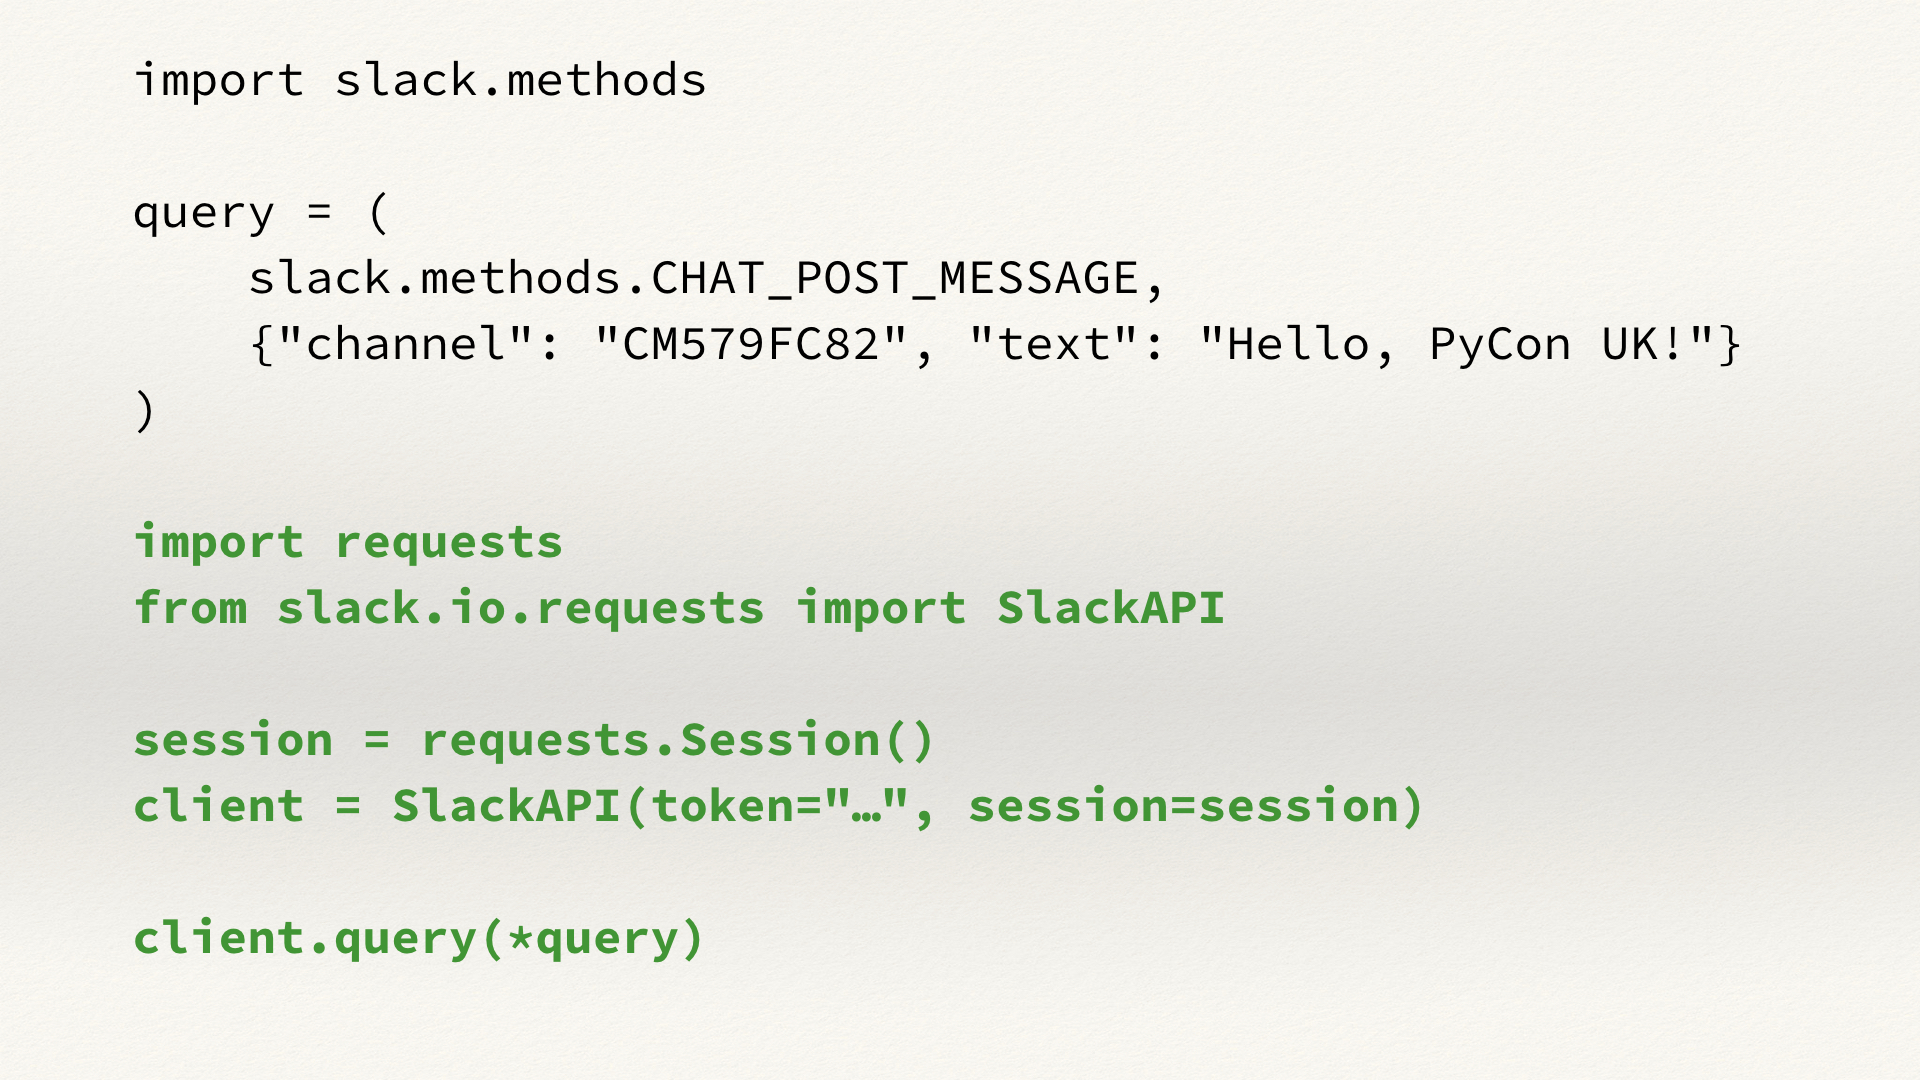
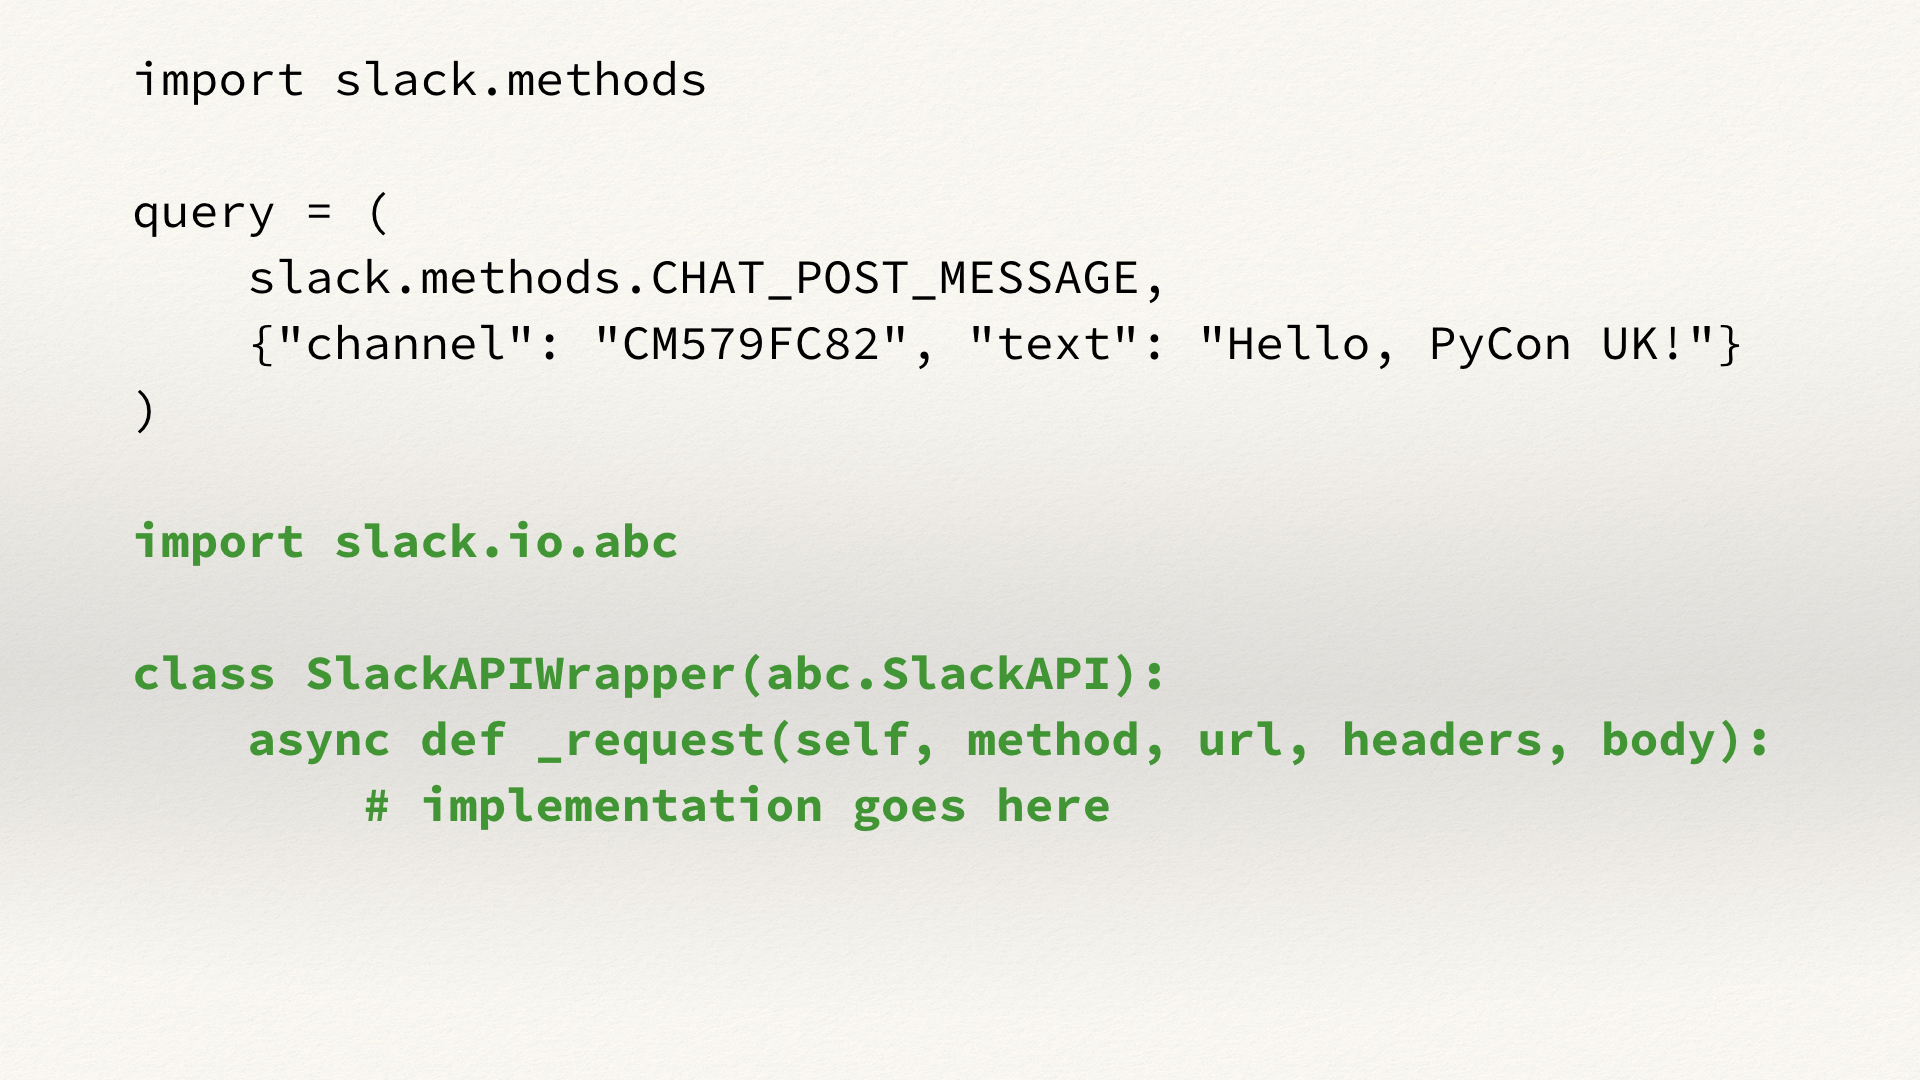
Tidy up the sans I/O programming post a bit

diff --git a/src/_drafts/sans-i-o-programming.md b/src/_drafts/sans-i-o-programming.md
@@ -12,12 +12,12 @@ index:
 
 Last month I gave a talk about PyCon UK about "sans I/O programming".
 This is a style of programming I've been trying to use for a while, and I've found it quite helpful.
-It's not something revolutionary, but a slightly nicer way to write code.
-The result is code that's simpler, cleaner, and easier to reuse and test.
+It's not revolutionary, but it's a nicer way to write code.
+The result is code that's simpler, cleaner, easier to reuse and easier to test.
 
 This isn't an original idea or term: I first encountered it a couple of years ago while working on the [hyper HTTP/2 library](https://github.com/python-hyper/hyper-h2), and I'm sure the idea is older than that.
 
-The talk was recorded, and you can watch it [on YouTube](https://www.youtube.com/watch?v=qwTWqy0uPbY)
+The talk was recorded, and you can watch it [on YouTube](https://www.youtube.com/watch?v=qwTWqy0uPbY):
 
 {% youtube https://www.youtube.com/watch?v=qwTWqy0uPbY %}
 
@@ -30,14 +30,13 @@ The two STTRs that day were Wendy Osmond and Hilary Maclean; I'm not sure who wa
 
 ## Links/recommended reading
 
-Writing I/O-Free (Sans-I/O) Protocol Implementations
-https://sans-io.readthedocs.io/how-to-sans-io.html
-Building Protocol Libraries the Right Way
-https://www.youtube.com/watch?v=7cC3_jGwl_U
-Designing an async API, from sans-I/O on up
-https://snarky.ca/designing-an-async-api-from-sans-i-o-on-up/
-SansIO – Migrating microservices to async
-https://smarketshq.com/sansio-migrating-microservices-to-asyncio-b97c69e391b2
+*   [Writing I/O-Free (Sans-I/O) Protocol Implementations](https://sans-io.readthedocs.io/how-to-sans-io.html)
+
+*   [Building Protocol Libraries the Right Way](https://www.youtube.com/watch?v=7cC3_jGwl_U), Cory Benfield's talk at PyCon 2016
+
+*   [Designing an async API, from sans-I/O on up](https://snarky.ca/designing-an-async-api-from-sans-i-o-on-up/), by Brett Cannon
+
+*   [SansIO – Migrating microservices to async](https://smarketshq.com/sansio-migrating-microservices-to-asyncio-b97c69e391b2), by João Alves
 
 
 
@@ -147,8 +146,9 @@ HTTP libraries end up being written to suit the I/O or the async primitive, and 
 If you look at it, httplib does exactly what those BagIt libraries were doing, except with sockets instead of files.
 To handle a HTTP request, it reads data from a socket, does some parsing, reads some data from a socket, does some parsing, but if you're not doing HTTP over a socket, or you want to control that socket yourself, that doesn't work for you.
 Because the HTTP state machine logic in httplib is so closely tied to that logic, it's really hard to disentangle the two.
+
 Every time somebody wants to create a new HTTP library, they have to build their own interpretation of the parser and state machine.
-They're getting good code reuse, and that's kind of sad.
+They're getting no code reuse, and that's kind of sad.
 We're all told that code reuse is a good thing, we should strive to have more code reuse, so in something as fundamental as HTTP, maybe it's an anti-pattern that we don't seem to have as much code reuse as we would like.
 
 I want to unpack the problems of not having so much code reuse.
@@ -176,9 +176,9 @@ Parsing stuff, doing business logic, is a tricky problem.
 It's hard to get right.
 There are subtle errors.
 
-I imagine lots of people in this room think they can write an RFC compliant HTTP/1.1 or BagIt parser -- I'm one of them -- and we are probably all wrong because parsing is really hard!
+I imagine lots of people in this room think they can write an RFC compliant HTTP/1.1 or BagIt parser -- I'm one of them -- and we're probably all wrong because parsing is really hard!
 So when we have multiple copies of the parser, and they're all independent and not showing any code, that means they're not sharing information about bugs.
-If I find a bug in Gunicorn and fix it there, that same bug might exist in other HTTP stacks, but it's unlikely it will get to them.
+If I find a bug in gunicorn and fix it there, that same bug might exist in other HTTP stacks, but it's unlikely it will get to them.
 
 
 
@@ -315,12 +315,12 @@ When you are just testing functions that deal in pure in-memory objects, it gets
 
 {% slide_image :deck => "sans_io", :slide => 23, :alt => "Output from a test suite, showing 100% line and branch coverage for every file." %}
 
-One example: this is the test suite for hyper-h2, an HTTP/2 parsing library in Python.
+One example: this is the test suite for [hyper-h2](https://github.com/python-hyper/hyper-h2), an HTTP/2 parsing library in Python.
 This ran 1500 tests in barely half a minute.
 
 That gives us a very high degree of confidence in this code.
-It's been tested very thoroughly, and several of these tests are tests using Hypothesis (a property-based testing library which runs hundreds of examples for each test), so realistically you're getting closer to two or three thousand test cases here, all checking that this code is behaving correctly.
-This is a level of coverage that's difficult to achieve if you mix I/O and logic.
+It's been tested very thoroughly, and several of these tests are tests using [Hypothesis](https://github.com/HypothesisWorks/hypothesis) (a property-based testing library which runs hundreds of examples for each test), so realistically you're getting closer to two or three thousand test cases here, all checking that this code is behaving correctly.
+This is a level of coverage that's hard to achieve if you mix I/O and logic.
 
 
 
@@ -379,7 +379,7 @@ I want to show you a few examples, so you can see how other people have done thi
 
 {% slide_image :deck => "sans_io", :slide => 29, :alt => "Example code for creating an HTTP/2 server with hyper-h2." %}
 
-First, let's create an HTTP/2 server with a hyper-h2.
+First, let's create an HTTP/2 server with [hyper-h2](https://github.com/python-hyper/hyper-h2).
 
 We create this Python object.
 We call this `initiate_connection()` method, and this starts building a buffer of bytes internally that we can send on the wire -- but it doesn't send those bytes anymore, just stores them in-memory.
@@ -392,12 +392,12 @@ I imagine most of you aren't working with low-level HTTP interactions, so let's 
 
 {% slide_image :deck => "sans_io", :slide => 30, :alt => "Example code for using slack-sansio with requests." %}
 
-Second example is calling the Slack API with a slack-sansio Slack library
+My second example is calling the Slack API with [the slack-sansio library](https://pypi.org/project/slack-sansio/).
 
-We will create a `CHAT_POST_MESSAGE` object and a dict that contains our payload data.
-This library has an abstract class, and it asks you to fill in this `_request` method, which processes a simple HTTP request.
+We create a `CHAT_POST_MESSAGE` object and a dict that contains our payload data.
+This library has an abstract class `abc.SlackAPI`, and it asks you to fill in this `_request` method, which processes a simple HTTP request.
 The class does all the work to turn your query object into an HTTP request, and then calls this `_request` method.
-It provides an implementation in Requests, or in curio, or in asyncio or whatever, and it's easy to build new HTTP implementations on top of that if you need them.
+It provides an implementation in Rrquests, or in curio, or in asyncio or whatever, and it's easy to build new HTTP implementations on top of that if you need them.
 
 The core of the library doesn't change.
 That's another nice example to look at.
@@ -406,9 +406,9 @@ That's another nice example to look at.
 
 {% slide_image :deck => "sans_io", :slide => 31, :alt => "Code for a function called load_tag_file() in the bagit-python library." %}
 
-One final example, looking at refactoring a function in the bagit-python library I mentioned at the start.
+One final example, looking at refactoring a function in [the bagit-python library](https://pypi.org/project/bagit/) I mentioned at the start.
 
-Sans I/O doesn't need to be a big, all-in-one change.
+The nice thing about sans I/O is that it doesn't need to be a big, all-in-one change.
 You can't take six weeks out of your sprint to re-factor all your code to be nice and sans I/O because someone at PyCon told you about it; you can make small, incremental improvements.
 
 We've got a function here that's going to load something called a *tag file*.
@@ -433,4 +433,4 @@ If you are getting your lines rather than from a file, say from S3, or Azure Blo
 So create that I/O sandwich, push the I/O out to the boundaries of your programme.
 
 This isn't going to completely change the way you do programming and it won't turn the world upside-down, but it will just give you code that's a little bit simpler, a little bit cleaner, a little bit easier to work with.
-I hope I've persuaded you that there is some virtue in writing your programs this way, given you some idea of how it's done and when you go back to your day jobs you'll try it yourself.
+I hope I've persuaded you that there is some virtue in writing your programs this way, given you some idea of how it's done, and when you go back to your day jobs you'll try it yourself.
